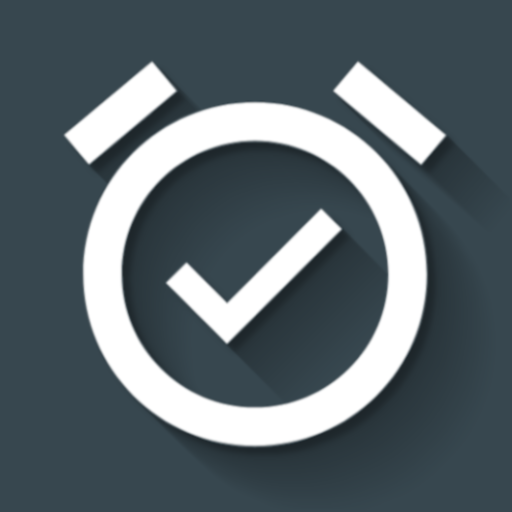
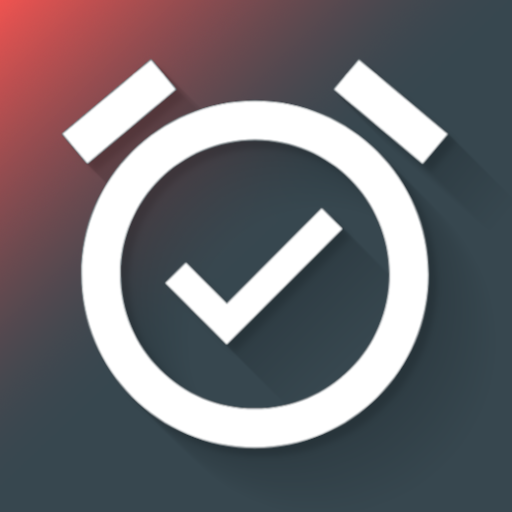
update readme

diff --git a/README.md b/README.md
@@ -1,18 +1,49 @@
-# Simple Time Tracker
+<h1 align="center">
+    <img src="metadata/en-US/images/icon_round.png" alt="icon" height="128" width="128"/>
+    <br>
+    <b>Simple Time Tracker</b>
+</h1>
 
-Simple app that helps track how much time you spend on all the useless activities in the world.
+<div align="center">
+    Simple app that helps track how much time you spend on all the useless activities in the world.
+</div>
 
-[<img src="https://fdroid.gitlab.io/artwork/badge/get-it-on.png"
-     alt="Get it on F-Droid"
-     height="75">](https://f-droid.org/packages/com.razeeman.util.simpletimetracker/)
-[<img src="https://play.google.com/intl/en_us/badges/images/generic/en-play-badge.png"
-     alt="Get it on Google Play"
-     height="75">](https://play.google.com/store/apps/details?id=com.razeeman.util.simpletimetracker)
-[<img src="https://github.com/machiav3lli/oandbackupx/blob/034b226cea5c1b30eb4f6a6f313e4dadcbb0ece4/badge_github.png"
-     alt="Get it on GitHub"
-     height="75">](https://github.com/Razeeman/Android-SimpleTimeTracker/releases/latest)
+<br>
+<br>
 
-<img src="dev_files/preview.gif" width="300"/>
+<div align="center">
+<a href="https://github.com/Razeeman/Android-SimpleTimeTracker/releases/latest">
+     <img alt="GitHub Releases"
+        src="https://img.shields.io/github/downloads/razeeman/Android-SimpleTimeTracker/total?style=for-the-badge"/></a>
+<a href="https://x.com/SimpleTimeTrack">
+     <img alt="Twitter"
+        src="https://img.shields.io/badge/tweet-black?style=for-the-badge&logo=X"/></a>
+<a href="https://buymeacoffee.com/freeraz">
+     <img alt="Buy Me a Coffee"
+        src="https://img.shields.io/badge/buy_me_a_coffee-FFDD00?style=for-the-badge&logo=buymeacoffee&logoColor=black"/></a>
+</div>
+
+<div align="center">
+<a href="https://f-droid.org/packages/com.razeeman.util.simpletimetracker">
+     <img alt="Get it on F-Droid"
+        src="https://fdroid.gitlab.io/artwork/badge/get-it-on.png"
+        height="75"/></a>
+<a href="https://play.google.com/store/apps/details?id=com.razeeman.util.simpletimetracker">
+     <img alt="Get it on F-Droid"
+        src="https://play.google.com/intl/en_us/badges/images/generic/en-play-badge.png"
+        height="75"/></a>
+<a href="https://github.com/Razeeman/Android-SimpleTimeTracker/releases/latest">
+     <img alt="Get it on F-Droid"
+        src="https://github.com/machiav3lli/oandbackupx/blob/034b226cea5c1b30eb4f6a6f313e4dadcbb0ece4/badge_github.png"
+        height="75"/></a>
+</div>
+
+<br>
+<br>
+
+<div align="center">
+    <img src="dev_files/preview.gif" width="300"/>
+</div>
 
 <br>
 